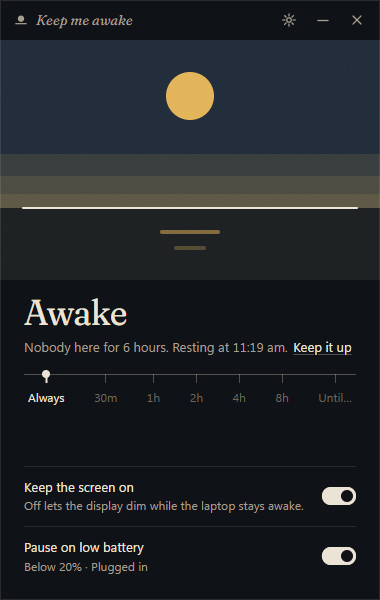
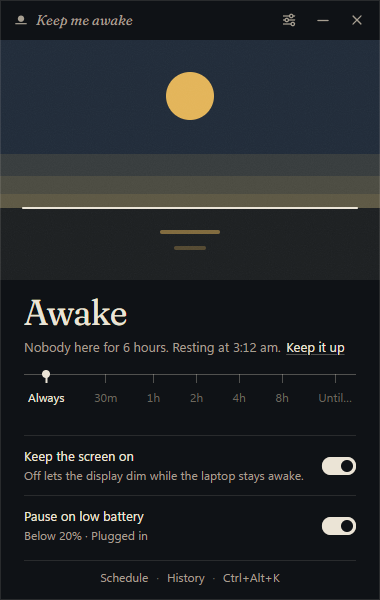
docs: the doors and the settings sliders, with fresh Home shots
design.md: Home's sixth band, the doors, and why the settings button is
sliders, with both alternatives under Decided against. Guide: the window
diagram and a Doors section. README: the sliders, and History from the
main window. Changelog under Unreleased.

The Home screenshots (resting, awake 2h, on schedule, nobody around; Paper
and Night) are recaptured from the real window on Windows at 380 × 600,
so they show the new icon and the doors. A capture-only style kept the
title bar out of its hover state, since the mouse rested over it; the
overnight shots re-emit the real snapshot with a question set.

diff --git a/README.md b/README.md
@@ -73,17 +73,18 @@ Or build it from source: see [Development](#development).
 The [field guide](docs/guide.md) covers every control, including the things
 that are not labelled. The short version:
 
-| Want to…                        | Do…                                        |
-| ------------------------------- | ------------------------------------------ |
-| keep the laptop awake           | click the sun, or press **Space**          |
-| for a fixed time                | pick a stop on the rule under the status   |
-| until a time of day             | pick **Until…** and type a time            |
-| let it sleep again              | click the sun again                        |
-| keep it up during working hours | Settings → **Schedule**                    |
-| toggle from another app         | **Ctrl+Alt+K** (**⌥⌘K** on a Mac)          |
-| get the window out of the way   | **Esc** or ×; the sun stays up in the tray |
-| do all of this without a window | right-click the sun in the tray            |
-| change defaults                 | gear, or **Ctrl+,** (**⌘,** on a Mac)      |
+| Want to…                        | Do…                                          |
+| ------------------------------- | -------------------------------------------- |
+| keep the laptop awake           | click the sun, or press **Space**            |
+| for a fixed time                | pick a stop on the rule under the status     |
+| until a time of day             | pick **Until…** and type a time              |
+| let it sleep again              | click the sun again                          |
+| keep it up during working hours | Settings → **Schedule**                      |
+| toggle from another app         | **Ctrl+Alt+K** (**⌥⌘K** on a Mac)            |
+| get the window out of the way   | **Esc** or ×; the sun stays up in the tray   |
+| do all of this without a window | right-click the sun in the tray              |
+| change defaults                 | the sliders, or **Ctrl+,** (**⌘,** on a Mac) |
+| see when it stayed up           | **History** at the foot of the window        |
 
 Settings live at `%APPDATA%\dev.bajpai.keepmeawake\settings.json`, logs at
 `%LOCALAPPDATA%\dev.bajpai.keepmeawake\logs`. On a Mac:

diff --git a/docs/design.md b/docs/design.md
@@ -96,8 +96,16 @@ or dark menu bar. No colour, so the sun's amber stays in the window.
 4. **Rule**: durations as stops on a hairline. The active stop has a filled
    dot and a doubled tick. "Until…" opens an inline time field.
 5. **Rows**: the two switches people flip daily.
+6. **Doors**: one quiet line, `Schedule · History · Ctrl+Alt+K`, each opening
+   Settings at its section. They are for what never announces itself: the
+   schedule is off until set, history only records, and the hotkey shows
+   its own combination, so the line says it exists. The sunset warning and
+   the overnight guard speak up when they act and need no door. The line
+   gives way below 560 px of height, where the two rows need the room.
 
-Everything else is behind the gear, in a pane that slides in from the right
+Everything else is behind the settings button (sliders, not a gear: at
+16 px a gear is one more sun, in an app where the sun is the one accent and
+the switch), in a pane that slides in from the right
 and uses the same Row primitive with switches, a two-arrow stepper for lists
 and a segmented control for three-way choices. No dropdowns, no modals.
 
@@ -140,6 +148,8 @@ is harmless, discoverable by touching the scene, and never required.
 | ------------------------ | ----------------------------------------------------------------- |
 | Mica / acrylic window    | the scene paints its own sky; translucency fights it              |
 | a big primary button     | the sun is the button; a second one would make the sun decorative |
+| a gear for settings      | at 16 px its spokes read as a sun, the app's switch and its mark  |
+| a third row on Home      | no room at 340 × 520; the doors point into Settings instead       |
 | chips for durations      | a rule reads as an instrument and uses a quarter of the height    |
 | accent-coloured controls | one accent, used once                                             |
 | toasts in 0.1            | a sunset you can see is enough; on the roadmap behind a setting   |

diff --git a/docs/guide.md b/docs/guide.md
@@ -8,13 +8,14 @@ Everything the app can do, including the parts that are not labelled.
 flowchart TB
     subgraph Window["380 × 600, frameless"]
         direction TB
-        T["Title bar · wordmark · gear · minimise · close"]
+        T["Title bar · wordmark · settings · minimise · close"]
         S["Scene · sky, sun, horizon, ground"]
         ST["Status · Resting / Awake / Paused + one line of detail"]
         R["Rule · Always · 30m · 1h · 2h · 4h · 8h · Until…"]
         RW["Rows · Keep the screen on · Pause on low battery"]
+        D["Doors · Schedule · History · Ctrl+Alt+K"]
     end
-    T --> S --> ST --> R --> RW
+    T --> S --> ST --> R --> RW --> D
 ```
 
 ### Scene
@@ -112,6 +113,14 @@ stop carries a dot; while a custom time is set the last stop reads
 | Pause on low battery | below 20% the sun pauses; resumes on charger | battery level is ignored            |
 
 The hint under the battery row shows the live reading ("Plugged in · 100%").
+
+### Doors
+
+The line at the foot, `Schedule · History · Ctrl+Alt+K`, opens Settings at
+that section: the schedule, the log of when the sun was up, and the hotkey,
+which shows the combination it is set to (`Hotkey` when it is off; `⌥⌘K` on
+a Mac). The settings button in the title bar (the sliders) opens Settings
+where you left it. The line hides when the window is shorter than 560 px.
 
 ## Keyboard
 

diff --git a/CHANGELOG.md b/CHANGELOG.md
@@ -5,7 +5,16 @@ Versions: [SemVer](https://semver.org).
 
 ## [Unreleased]
 
+### Changed
+
+- The settings button is a set of sliders rather than a gear, which read as
+  a second sun at title bar size.
+
 ### Added
+
+- Home ends with a quiet line of doors, `Schedule · History · Ctrl+Alt+K`,
+  each opening Settings at that section, so the features that never
+  announce themselves can be found from the main window.
 
 - Overnight guard: when an Always session has had no keyboard, mouse or
   trackpad input for 6 hours (Off, 4, 6 or 8 in Settings → Waking), the sun
